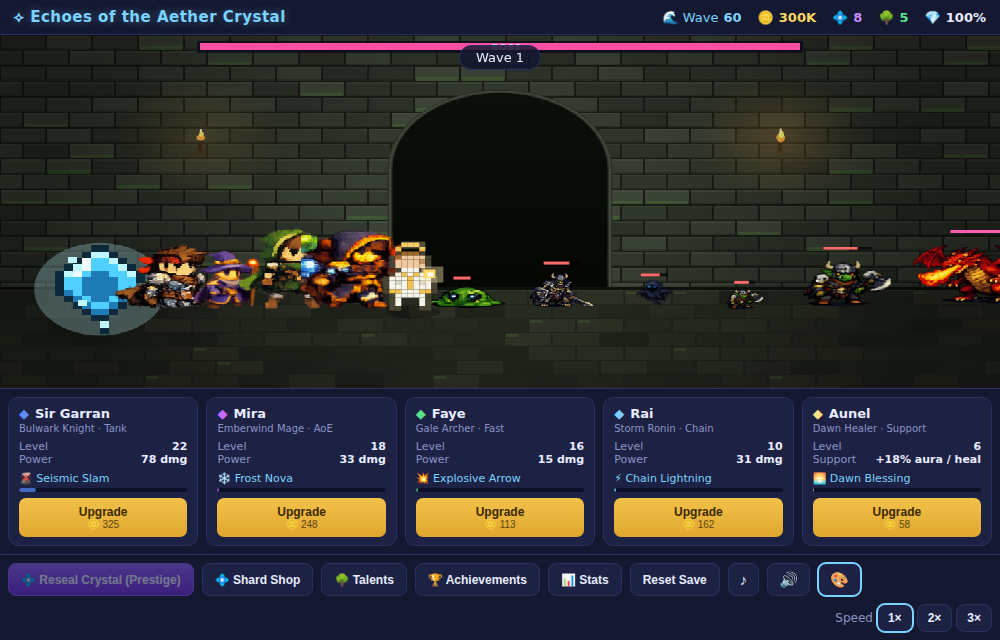
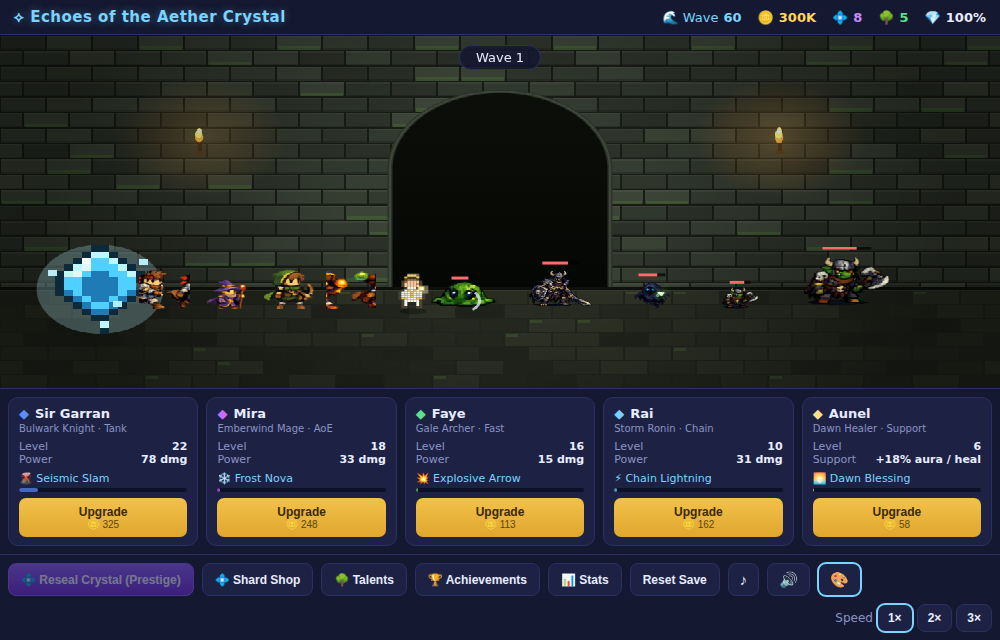
Halve hero sprite size, double the dragon boss size
Per request: HFIT 2.1 -> 1.05 (and the canvas fallback scale 2.0 -> 1.0) so
heroes render at half size; the boss dragon target height factor 12 -> 24 so it
renders twice as large and dominates the lane.

Claude-Session: https://claude.ai/code/session_0137Kmgx8usseqRPpPc7daxH

diff --git a/game.js b/game.js
@@ -687,7 +687,7 @@ function draw(now){
     const t = ENEMY_TYPES[e.type] || ENEMY_TYPES.normal;
     const es = size * (e.boss ? 3 : t.size);
     const sid = e.boss ? 'dragon' : ENEMY_SPRITE[e.type];
-    const th = es * (e.boss ? 12 : 14);               // sprite target height
+    const th = es * (e.boss ? 24 : 14);               // sprite target height (boss dragon 2x)
     let drew = false, by = e.y;
     if (window.Sheets && sid) drew = Sheets.draw(ctx, sid, e.x, e.y, th, 'idle', now);
     if (!drew){
@@ -739,7 +739,7 @@ function draw(now){
       if (fn){
         // scale the canvas art up so it matches the (larger) sheet heroes
         ctx.save();
-        ctx.translate(slot.x, slot.y); ctx.scale(2.0, 2.0);
+        ctx.translate(slot.x, slot.y); ctx.scale(1.0, 1.0);
         fn(ctx, 0, 0, size, frame);
         ctx.restore();
       } else drawFallbackChar(slot.x, slot.y, size, slot.def.color);

diff --git a/sheets.js b/sheets.js
@@ -31,7 +31,7 @@ window.Sheets = (function () {
   // (right). Aunel has no sheet and uses the built-in canvas art.
   // sliced sheets pack every character at the same body height, so heroes share
   // one fit for a consistent on-screen size.
-  const HFIT = 2.1;   // no-clip cells have headroom, so scale up to stay prominent
+  const HFIT = 1.05;  // hero on-screen scale (halved per request)
   const SHEET_CONFIG = {
     garran: { file:'warrior.png',  rows:4, cols:5, fit:HFIT, flip:true, anim:rows4(5,2,1,1) },  // Knight  (warrior art)
     mira:   { file:'wizard.png',   rows:4, cols:8, fit:HFIT, flip:true, anim:rows4(5,8,2,2) },  // Mage    (purple wizard art)
